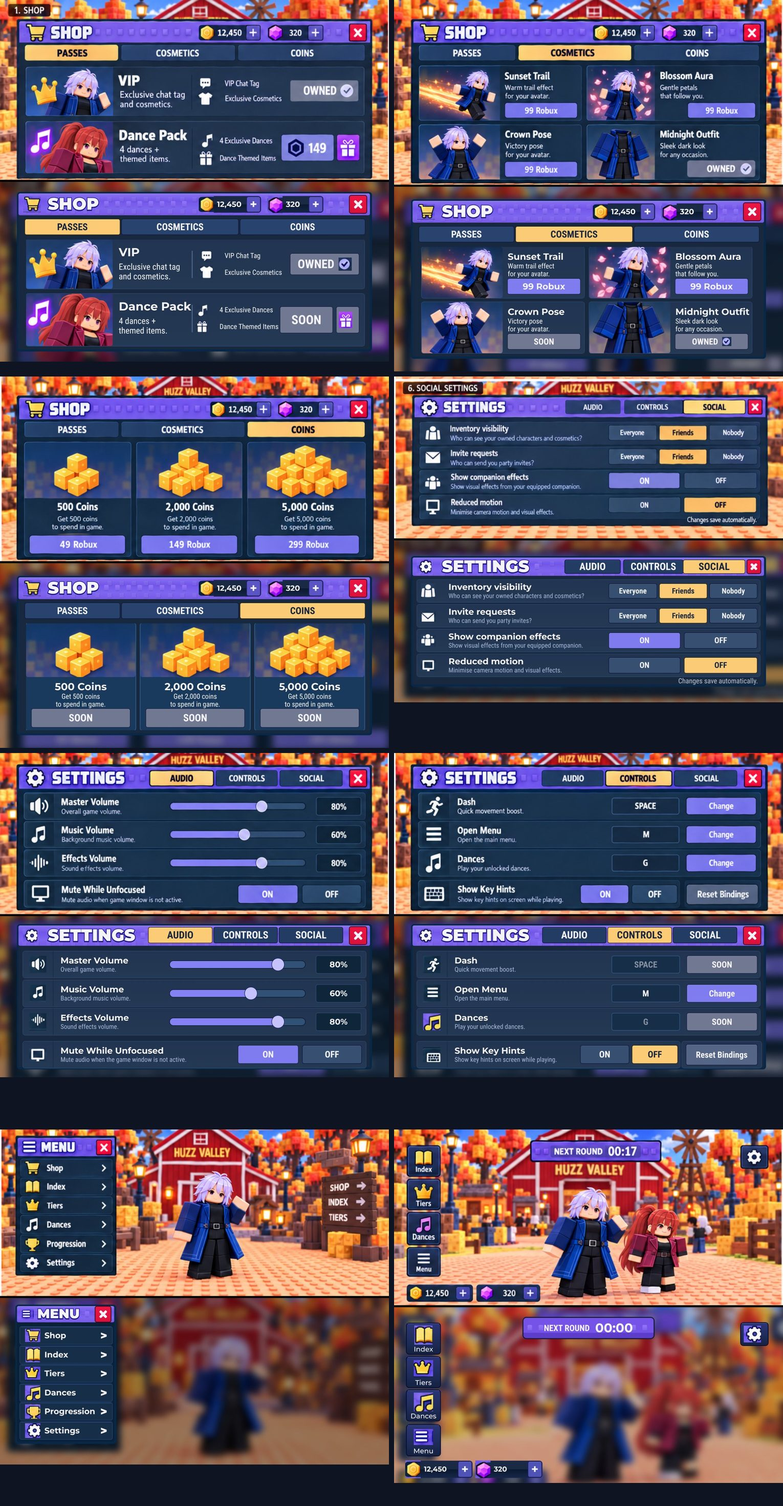
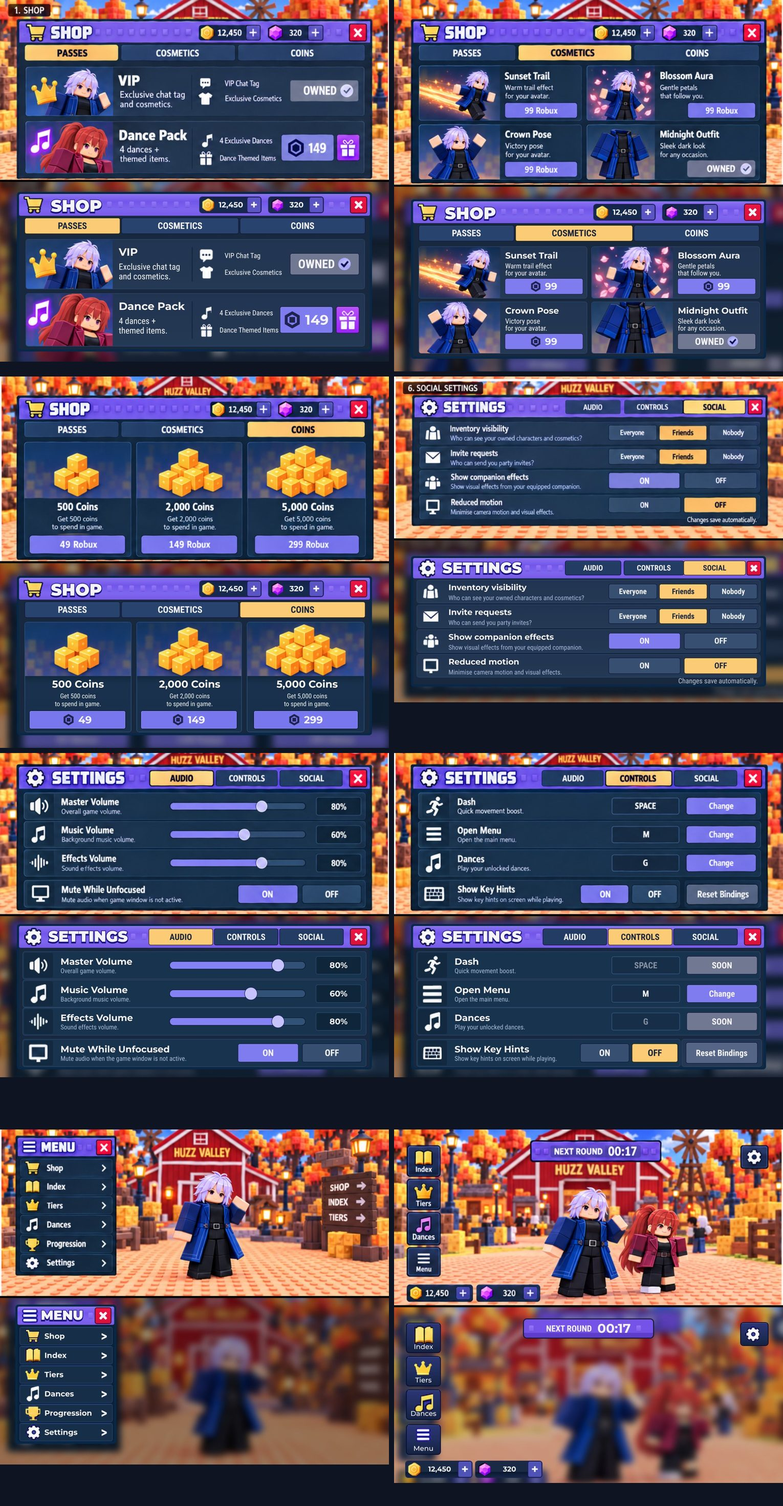
Huzz Valley: fix every imperfection from the second critic pass
- Whole-pixel geometry everywhere (Roblox stores offsets as integers):
  4 px window frame, Settings/Menu header heights, row positions.
- Removed the extra header stud texture (the reference has one raised row).
- Card rims no longer clipped by the scrolling body; product art rounded
  on the left only; Passes divider is a dark groove; benefit alignment.
- Cosmetics centred and less crowded; bigger badge and prices.
- Settings: inset icon cells, per-tab studs, tab text sizes, refit on tab
  change. Menu: integer rows, condensed chevron, white dance icon.
- HUD: banner sizes and stud gaps, button sizes, pill icons/centring.
- Preview renderer rounds offsets like Roblox.
- CLAUDE.md: Roblox UI rules the preview won't show.

Claude-Session: https://claude.ai/code/session_015H4KcYrSLUzc9YvEWbGTKb

diff --git a/huzz-valley/tools/preview/render.html b/huzz-valley/tools/preview/render.html
@@ -29,7 +29,8 @@ function measure(t, px) { const f = fontOf(t.font); ctx.font = `${f.weight} ${px
 
 function sized(n, pw, ph, k) {
   const s = (n.mods && n.mods.scale) || 1, kk = k * s;
-  let w = pw * n.size[0] + n.size[1] * kk, h = ph * n.size[2] + n.size[3] * kk;
+  // Roblox stores UDim offsets as whole numbers, so round them like it does.
+  let w = pw * n.size[0] + Math.round(n.size[1]) * kk, h = ph * n.size[2] + Math.round(n.size[3]) * kk;
   if (n.text && (n.auto === 'X' || n.auto === 'XY')) {
     const pad = n.mods.pad ? (n.mods.pad[0][1] + n.mods.pad[1][1]) * kk : 0;
     w = Math.max(w, measure(n.text, n.text.size * kk) + pad + 1);
@@ -105,8 +106,8 @@ function draw(n, parentEl, rect, k, parentAbs) {
   } else {
     for (const p of placed) {
       const c = p.c;
-      p.x = cx + cw * c.pos[0] + c.pos[1] * kk - c.anchor[0] * p.w;
-      p.y = cy + ch * c.pos[2] + c.pos[3] * kk - c.anchor[1] * p.h;
+      p.x = cx + cw * c.pos[0] + Math.round(c.pos[1]) * kk - c.anchor[0] * p.w;
+      p.y = cy + ch * c.pos[2] + Math.round(c.pos[3]) * kk - c.anchor[1] * p.h;
     }
   }
   placed.map((p, i) => ({ p, i })).sort((a, b) => (a.p.c.z - b.p.c.z) || (a.i - b.i))

diff --git a/CLAUDE.md b/CLAUDE.md
@@ -47,4 +47,8 @@ This file loads in every session, so keep it short. Each game folder has its own
   - the checks assert the rules;
   - the HTML renderer draws exported ScreenGuis next to the reference.
   - Lune 0.10.5 comes from the lune-org GitHub releases. Playwright and Chromium are already installed in cloud sessions.
+- **Roblox UI rules the preview won't show you:**
+  - UDim offsets are whole numbers, so never use half pixels;
+  - ClipsDescendants clips square and ignores UICorner, so round the image itself;
+  - a ScrollingFrame clips its children's outside UIStroke rims, so give them padding.
 - Cloud sessions can't reach Studio. Only the owner can confirm the final look and the real purchase prompts.
